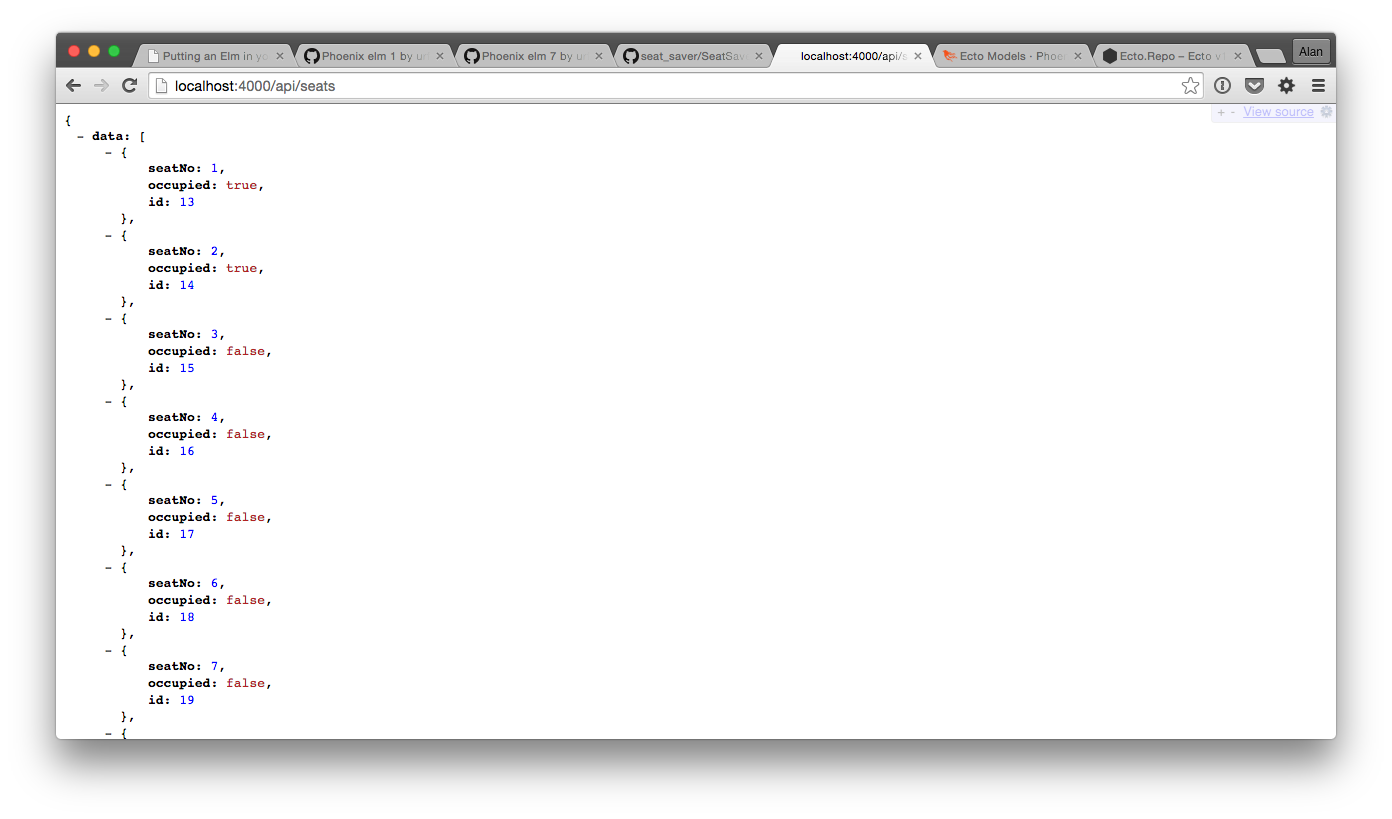
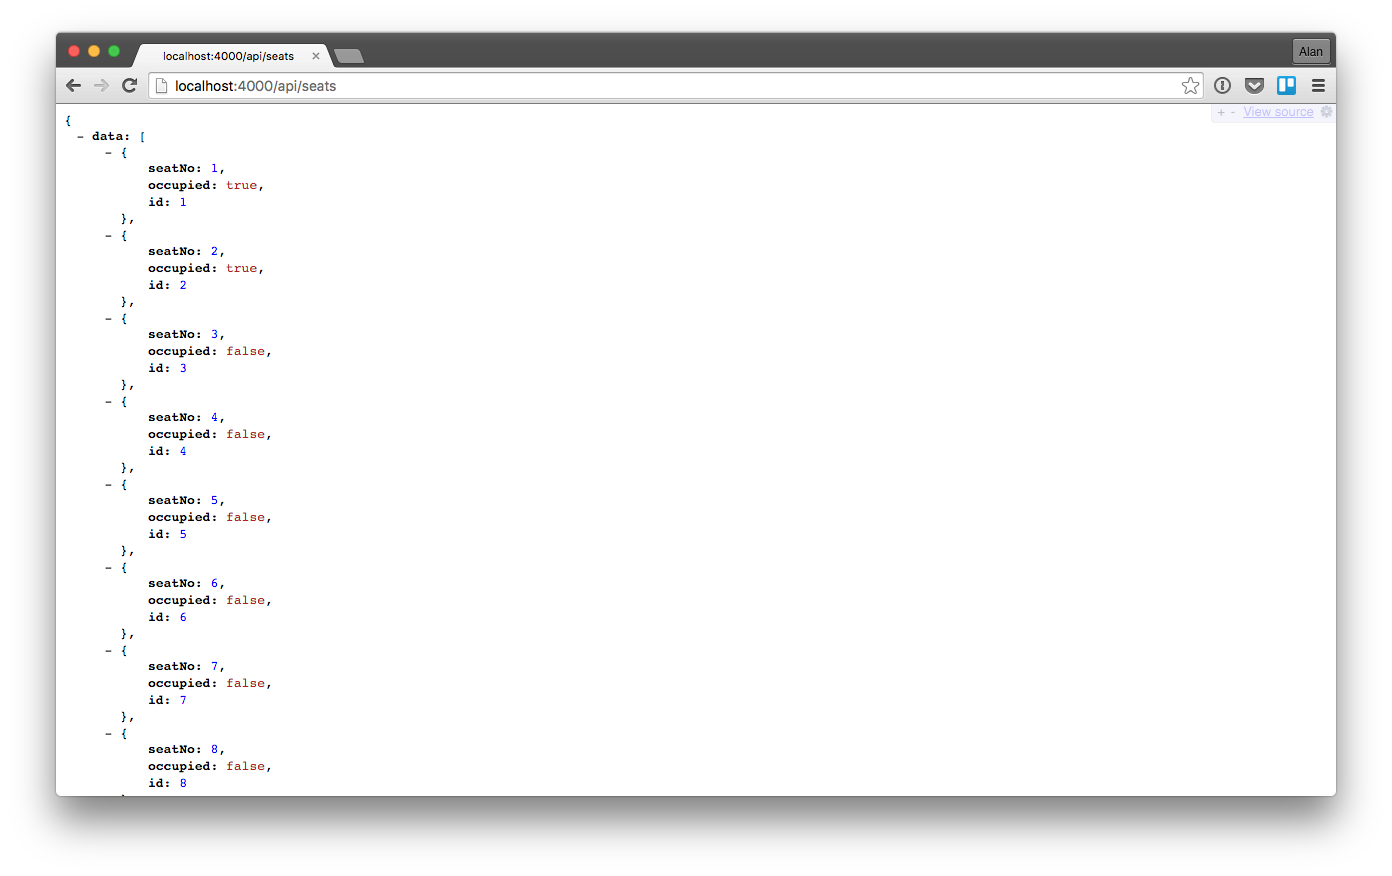
phoenix-elm-9

Changed region(s): [[0.0309, 0.0305, 0.9576, 0.1832], [0.0309, 0.1832, 0.9576, 0.9158]]

diff --git a/source/posts/2015-11-05-phoenix-elm-9.md b/source/posts/2015-11-05-phoenix-elm-9.md
@@ -80,7 +80,7 @@ Rather than hard-wire the seats in the `init` function we want to fetch them fro
     end
     ```
 
-    and adjust our test on line 22 of *test/controllers/seat_controller_test.exs* to match.
+    and adjust our test on line 21 of *test/controllers/seat_controller_test.exs* to match.
 
     ```elixir
     # test/controllers/seat_controller_text.exs
@@ -94,7 +94,7 @@ Rather than hard-wire the seats in the `init` function we want to fetch them fro
     ```
 
 7. We can run the tests again using `mix test` to ensure that we haven't broken anything.
-8. Fire up the Phoenix server (`iex -S mix phoenix.server` if you don't already have it running) and you should see the following at <http://localhost:4000/api/seats>
+8. Restart your Phoenix server (CTRL-C twice to shutdown and then `iex -S mix phoenix.server` to start again) and you should see the following at <http://localhost:4000/api/seats>
 
     ![Data API](/images/phoenix-elm/11.png)
 
@@ -218,7 +218,7 @@ So let's step through the `fetchSeats` function.
 
 ## Summary
 
-So that's how we fetch data via HTTP in Elm. Elm makes a lot of hard tings easy for us. Unfortunately HTTP is one of the "easy" things it makes, at least initially, hard. There is good reason for this though. Elm is forcing us to work in a particular way so that we can protect ourselves from runtime exceptions in our applications.
+So that's how we fetch data via HTTP in Elm. Elm makes a lot of hard things easy for us. Unfortunately HTTP is one of the "easy" things it makes, at least initially, hard. There is good reason for this though. Elm is forcing us to work in a particular way so that we can protect ourselves from runtime exceptions in our applications.
 
 This is the part of the tutorial that I've found the hardest to explain, mostly because I'm fairly new to a few of these concepts myself. If you'd like to read more on the subject, example 5 in the [Elm Architecture Tutorial](https://github.com/evancz/elm-architecture-tutorial/) is the best place to start.
 
